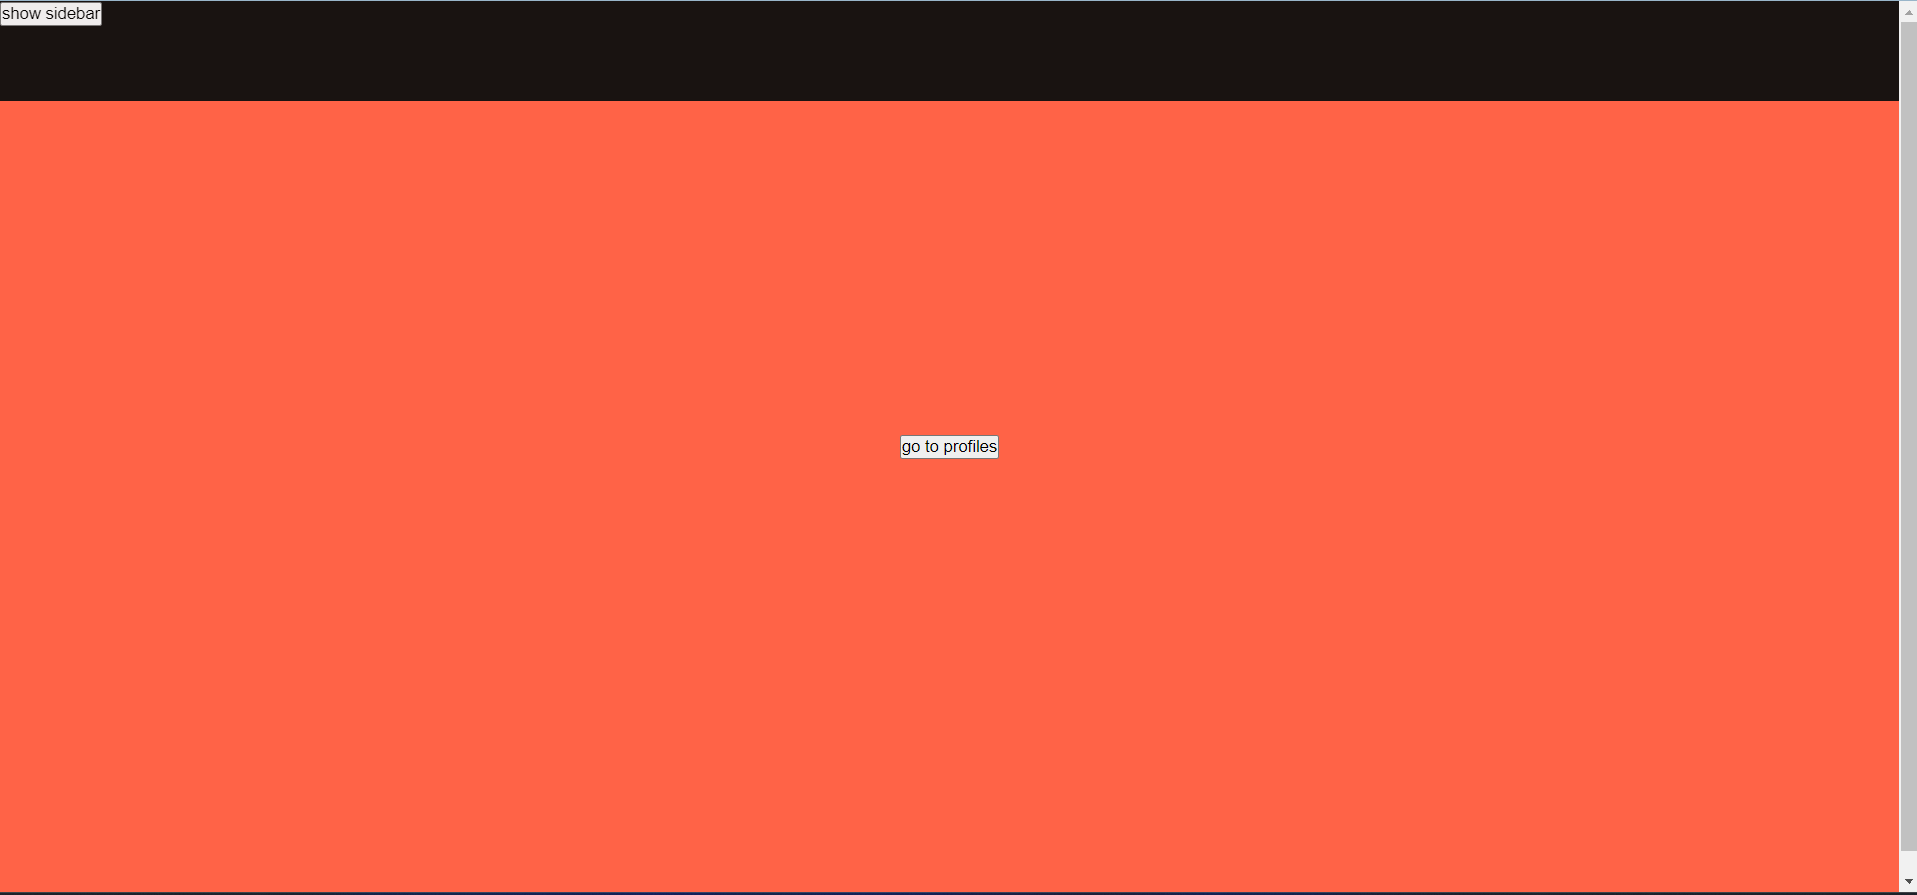
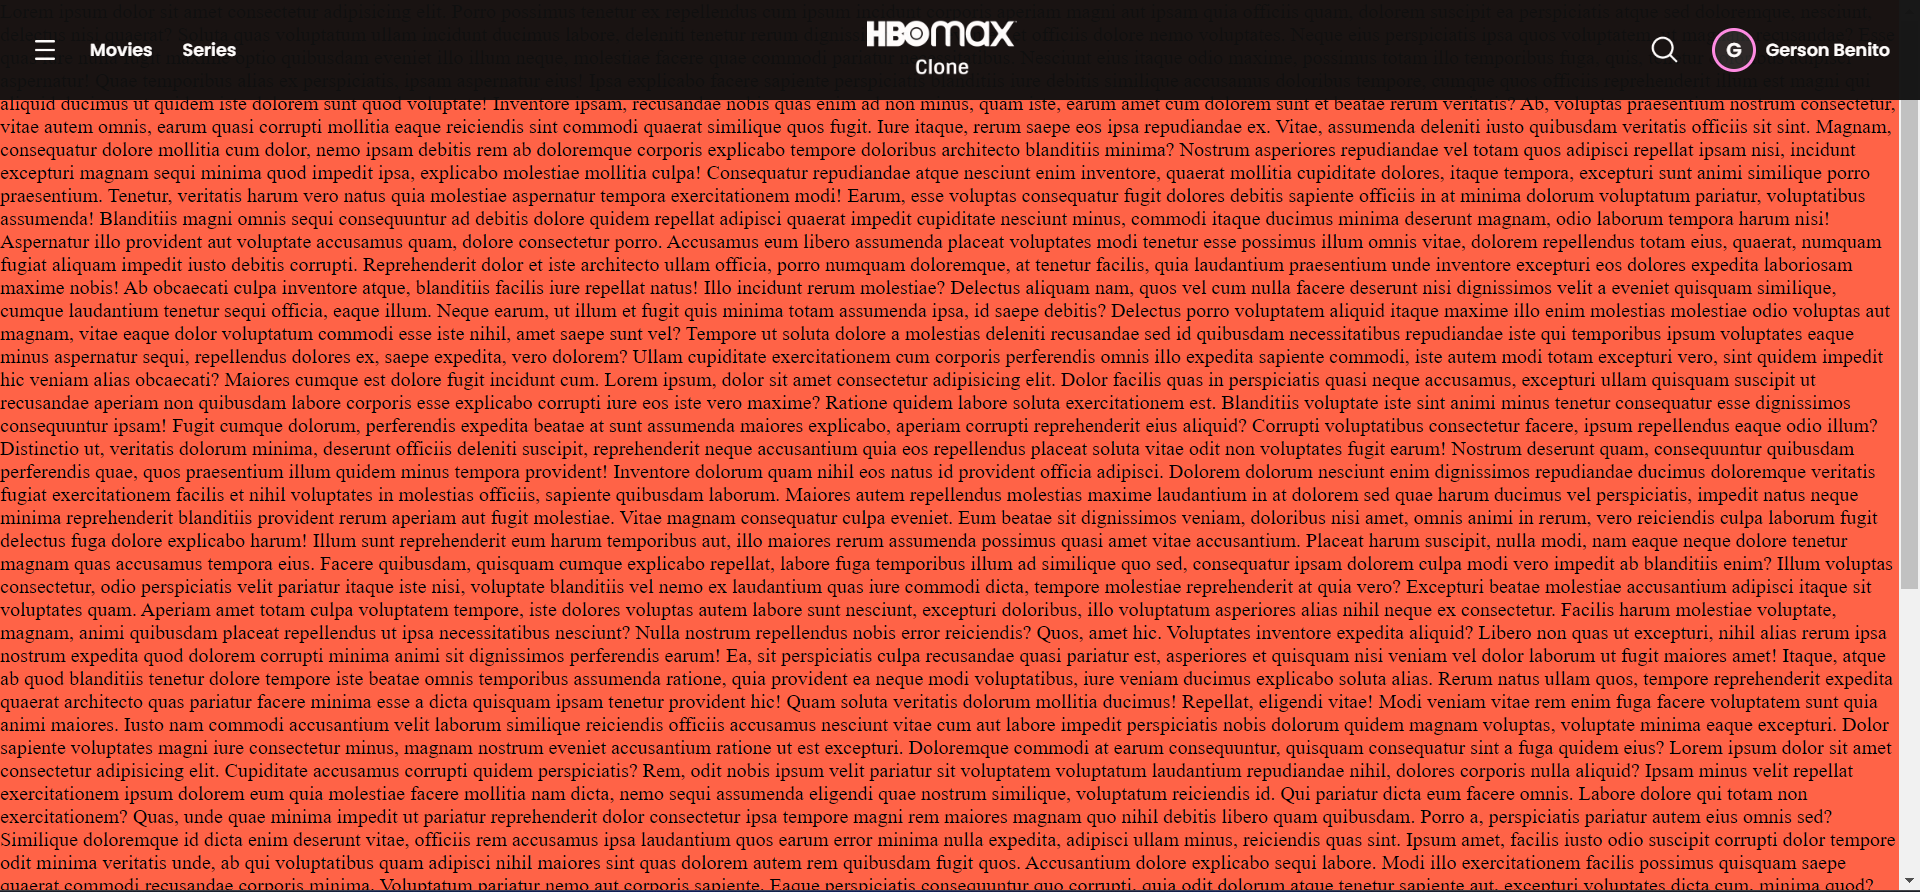
feat: navbar agregrado y readme actualizado

Changed region(s): [[0.0, 0.0, 1.0, 0.9989], [0.0, 0.0, 0.1231, 0.0605]]

diff --git a/src/app/modules/home/pages/home-page.component.html b/src/app/modules/home/pages/home-page.component.html
@@ -1,19 +1,15 @@
+<app-sidebar 
+    (onShowSideBar)="closeSideBar($event)" 
+    [visible]="isVisibleSidebar" 
+/>
+<app-navbar (onShowSideBar)="showSideBar($event)" />
 <div class="container">
-    <div>
-        <app-sidebar 
-            (onShowSideBar)="closeSideBar($event)" 
-            [visible]="isVisibleSidebar" 
-        />
-    </div>
-    <header>
-        <app-navbar (onShowSideBar)="showSideBar($event)" />
-    </header>
-    <main>
+    <div class="content">
         <router-outlet />
-        <button routerLink="/profile/select" >go to profiles</button>
-    </main>
-    <footer>
+        Lorem ipsum dolor sit amet consectetur adipisicing elit. Porro possimus tenetur ex repellendus cum ipsum incidunt corporis aperiam magni aut ipsam quia officiis quam, dolorem suscipit ea perspiciatis atque sed doloremque, nesciunt, delectus nisi quaerat? Soluta quas voluptatum ullam incidunt ducimus labore, deleniti tenetur rerum dignissimos vero eveniet, et officiis dolore nemo voluptates. Neque eius perspiciatis ipsa quos voluptatem, ut magnam recusandae? Esse quas iure nulla fugit maxime optio quibusdam eveniet illo illum neque, molestiae facere quae commodi pariatur necessitatibus. Nesciunt eius itaque odio maxime, possimus totam illo temporibus fuga, quis, tenetur doloribus adipisci aspernatur! Quae temporibus alias ex perspiciatis, ipsam aspernatur eius! Ipsa explicabo facere sapiente perspiciatis blanditiis iure debitis similique accusamus doloribus tempore, cumque quos officiis reprehenderit illum est magni qui aliquid ducimus ut quidem iste dolorem sunt quod voluptate! Inventore ipsam, recusandae nobis quas enim ad non minus, quam iste, earum amet cum dolorem sunt et beatae rerum veritatis? Ab, voluptas praesentium nostrum consectetur, vitae autem omnis, earum quasi corrupti mollitia eaque reiciendis sint commodi quaerat similique quos fugit. Iure itaque, rerum saepe eos ipsa repudiandae ex. Vitae, assumenda deleniti iusto quibusdam veritatis officiis sit sint. Magnam, consequatur dolore mollitia cum dolor, nemo ipsam debitis rem ab doloremque corporis explicabo tempore doloribus architecto blanditiis minima? Nostrum asperiores repudiandae vel totam quos adipisci repellat ipsam nisi, incidunt excepturi magnam sequi minima quod impedit ipsa, explicabo molestiae mollitia culpa! Consequatur repudiandae atque nesciunt enim inventore, quaerat mollitia cupiditate dolores, itaque tempora, excepturi sunt animi similique porro praesentium. Tenetur, veritatis harum vero natus quia molestiae aspernatur tempora exercitationem modi! Earum, esse voluptas consequatur fugit dolores debitis sapiente officiis in at minima dolorum voluptatum pariatur, voluptatibus assumenda! Blanditiis magni omnis sequi consequuntur ad debitis dolore quidem repellat adipisci quaerat impedit cupiditate nesciunt minus, commodi itaque ducimus minima deserunt magnam, odio laborum tempora harum nisi! Aspernatur illo provident aut voluptate accusamus quam, dolore consectetur porro. Accusamus eum libero assumenda placeat voluptates modi tenetur esse possimus illum omnis vitae, dolorem repellendus totam eius, quaerat, numquam fugiat aliquam impedit iusto debitis corrupti. Reprehenderit dolor et iste architecto ullam officia, porro numquam doloremque, at tenetur facilis, quia laudantium praesentium unde inventore excepturi eos dolores expedita laboriosam maxime nobis! Ab obcaecati culpa inventore atque, blanditiis facilis iure repellat natus! Illo incidunt rerum molestiae? Delectus aliquam nam, quos vel cum nulla facere deserunt nisi dignissimos velit a eveniet quisquam similique, cumque laudantium tenetur sequi officia, eaque illum. Neque earum, ut illum et fugit quis minima totam assumenda ipsa, id saepe debitis? Delectus porro voluptatem aliquid itaque maxime illo enim molestias molestiae odio voluptas aut magnam, vitae eaque dolor voluptatum commodi esse iste nihil, amet saepe sunt vel? Tempore ut soluta dolore a molestias deleniti recusandae sed id quibusdam necessitatibus repudiandae iste qui temporibus ipsum voluptates eaque minus aspernatur sequi, repellendus dolores ex, saepe expedita, vero dolorem? Ullam cupiditate exercitationem cum corporis perferendis omnis illo expedita sapiente commodi, iste autem modi totam excepturi vero, sint quidem impedit hic veniam alias obcaecati? Maiores cumque est dolore fugit incidunt cum.
+        Lorem ipsum, dolor sit amet consectetur adipisicing elit. Dolor facilis quas in perspiciatis quasi neque accusamus, excepturi ullam quisquam suscipit ut recusandae aperiam non quibusdam labore corporis esse explicabo corrupti iure eos iste vero maxime? Ratione quidem labore soluta exercitationem est. Blanditiis voluptate iste sint animi minus tenetur consequatur esse dignissimos consequuntur ipsam! Fugit cumque dolorum, perferendis expedita beatae at sunt assumenda maiores explicabo, aperiam corrupti reprehenderit eius aliquid? Corrupti voluptatibus consectetur facere, ipsum repellendus eaque odio illum? Distinctio ut, veritatis dolorum minima, deserunt officiis deleniti suscipit, reprehenderit neque accusantium quia eos repellendus placeat soluta vitae odit non voluptates fugit earum! Nostrum deserunt quam, consequuntur quibusdam perferendis quae, quos praesentium illum quidem minus tempora provident! Inventore dolorum quam nihil eos natus id provident officia adipisci. Dolorem dolorum nesciunt enim dignissimos repudiandae ducimus doloremque veritatis fugiat exercitationem facilis et nihil voluptates in molestias officiis, sapiente quibusdam laborum. Maiores autem repellendus molestias maxime laudantium in at dolorem sed quae harum ducimus vel perspiciatis, impedit natus neque minima reprehenderit blanditiis provident rerum aperiam aut fugit molestiae. Vitae magnam consequatur culpa eveniet. Eum beatae sit dignissimos veniam, doloribus nisi amet, omnis animi in rerum, vero reiciendis culpa laborum fugit delectus fuga dolore explicabo harum! Illum sunt reprehenderit eum harum temporibus aut, illo maiores rerum assumenda possimus quasi amet vitae accusantium. Placeat harum suscipit, nulla modi, nam eaque neque dolore tenetur magnam quas accusamus tempora eius. Facere quibusdam, quisquam cumque explicabo repellat, labore fuga temporibus illum ad similique quo sed, consequatur ipsam dolorem culpa modi vero impedit ab blanditiis enim? Illum voluptas consectetur, odio perspiciatis velit pariatur itaque iste nisi, voluptate blanditiis vel nemo ex laudantium quas iure commodi dicta, tempore molestiae reprehenderit at quia vero? Excepturi beatae molestiae accusantium adipisci itaque sit voluptates quam. Aperiam amet totam culpa voluptatem tempore, iste dolores voluptas autem labore sunt nesciunt, excepturi doloribus, illo voluptatum asperiores alias nihil neque ex consectetur. Facilis harum molestiae voluptate, magnam, animi quibusdam placeat repellendus ut ipsa necessitatibus nesciunt? Nulla nostrum repellendus nobis error reiciendis? Quos, amet hic. Voluptates inventore expedita aliquid? Libero non quas ut excepturi, nihil alias rerum ipsa nostrum expedita quod dolorem corrupti minima animi sit dignissimos perferendis earum! Ea, sit perspiciatis culpa recusandae quasi pariatur est, asperiores et quisquam nisi veniam vel dolor laborum ut fugit maiores amet! Itaque, atque ab quod blanditiis tenetur dolore tempore iste beatae omnis temporibus assumenda ratione, quia provident ea neque modi voluptatibus, iure veniam ducimus explicabo soluta alias. Rerum natus ullam quos, tempore reprehenderit expedita quaerat architecto quas pariatur facere minima esse a dicta quisquam ipsam tenetur provident hic! Quam soluta veritatis dolorum mollitia ducimus! Repellat, eligendi vitae! Modi veniam vitae rem enim fuga facere voluptatem sunt quia animi maiores. Iusto nam commodi accusantium velit laborum similique reiciendis officiis accusamus nesciunt vitae cum aut labore impedit perspiciatis nobis dolorum quidem magnam voluptas, voluptate minima eaque excepturi. Dolor sapiente voluptates magni iure consectetur minus, magnam nostrum eveniet accusantium ratione ut est excepturi. Doloremque commodi at earum consequuntur, quisquam consequatur sint a fuga quidem eius?
+        Lorem ipsum dolor sit amet consectetur adipisicing elit. Cupiditate accusamus corrupti quidem perspiciatis? Rem, odit nobis ipsum velit pariatur sit voluptatem voluptatum laudantium repudiandae nihil, dolores corporis nulla aliquid? Ipsam minus velit repellat exercitationem ipsum dolorem eum quia molestiae facere mollitia nam dicta, nemo sequi assumenda eligendi quae nostrum similique, voluptatum reiciendis id. Qui pariatur dicta eum facere omnis. Labore dolore qui totam non exercitationem? Quas, unde quae minima impedit ut pariatur reprehenderit dolor consectetur ipsa tempore magni rem maiores magnam quo nihil debitis libero quam quibusdam. Porro a, perspiciatis pariatur autem eius omnis sed? Similique doloremque id dicta enim deserunt vitae, officiis rem accusamus ipsa laudantium quos earum error minima nulla expedita, adipisci ullam minus, reiciendis quas sint. Ipsum amet, facilis iusto odio suscipit corrupti dolor tempore odit minima veritatis unde, ab qui voluptatibus quam adipisci nihil maiores sint quas dolorem autem rem quibusdam fugit quos. Accusantium dolore explicabo sequi labore. Modi illo exercitationem facilis possimus quisquam saepe quaerat commodi recusandae corporis minima. Voluptatum pariatur nemo aut corporis sapiente. Eaque perspiciatis consequuntur quo corrupti, quia odit dolorum atque tenetur sapiente aut, excepturi voluptates dicta cum, minima quod? Inventore, esse quia, facere non nihil repellendus dolores rem itaque obcaecati molestias, ad optio debitis doloribus sapiente hic maxime consequatur. Ipsa rem debitis quibusdam soluta quod non quisquam amet repellendus tenetur! Debitis eaque corporis aperiam doloremque asperiores totam facere voluptatibus ullam temporibus impedit. Blanditiis architecto minima excepturi ullam, voluptate corporis nihil adipisci earum, odio est ipsa nisi iste ipsam magnam ab voluptatibus dolores, aspernatur quibusdam nostrum repellendus mollitia impedit possimus nulla. Quibusdam, quaerat soluta. Harum iste blanditiis tenetur nam eligendi fuga provident velit fugit assumenda voluptate enim dolores nemo, alias totam! Esse nemo labore nostrum delectus maxime placeat, ex voluptate quibusdam doloremque recusandae id harum inventore optio nulla eos corrupti asperiores dolorem consequatur, dolorum quod! Sunt rerum nobis, debitis pariatur laboriosam distinctio est reiciendis doloremque esse dolorem doloribus sed delectus perferendis, dolores consectetur, ipsa recusandae nam similique quae suscipit explicabo harum. Rem quo exercitationem quisquam perspiciatis! Corrupti doloremque totam itaque quia, veniam nemo ipsum ea quasi omnis. Nulla ullam, ducimus pariatur laudantium numquam quibusdam saepe nisi labore molestias! Tenetur ad placeat, beatae cum nihil harum culpa, quia tempore repellat voluptatibus ullam, quas quae rerum eveniet corrupti. Consequuntur, illum? Error, ut. Officia vitae quis ea facere vel laboriosam obcaecati accusantium vero aliquid autem blanditiis nobis, reiciendis fugit dolorum aliquam exercitationem modi, voluptatibus doloribus amet, deserunt tempore? Tenetur, excepturi! Suscipit, iure accusamus animi nam eaque debitis optio in doloremque ut commodi laudantium, aspernatur delectus sed. Voluptas nemo omnis libero dolor dicta cum repellendus laboriosam itaque atque, veritatis quos blanditiis molestias obcaecati consequatur modi suscipit corrupti eius voluptates, fugit in officiis, ab est. Reiciendis ab eius cum sunt molestiae aspernatur quidem at iusto accusamus saepe aperiam eveniet pariatur iste, ratione culpa quibusdam exercitationem nihil neque consequuntur cupiditate cumque eos. Aspernatur ab, sit at suscipit asperiores et perspiciatis sequi recusandae aut ipsum perferendis inventore quo nam, distinctio quidem consectetur quaerat. Tenetur ratione pariatur id modi architecto magnam numquam hic blanditiis deleniti doloribus sit eius natus est magni, minima veniam quisquam! Sit veniam nulla culpa voluptatum vitae. Necessitatibus sunt debitis similique ea aspernatur nisi qui molestias exercitationem veniam porro quis ratione perspiciatis ut assumenda cumque deleniti modi quod possimus, quidem provident, nihil officiis sint a? Ipsam fugiat possimus inventore aut illo necessitatibus dignissimos voluptatem quidem ea sunt dolores blanditiis deserunt temporibus nihil natus quam dolorem, beatae explicabo ad suscipit vero sequi laboriosam? Nostrum tempora corporis at aliquid veritatis explicabo atque laboriosam, quo veniam amet voluptatum ut, nemo pariatur natus eum vero! Adipisci, architecto. Doloremque corporis obcaecati dignissimos, perferendis labore culpa suscipit, debitis soluta ab, eligendi possimus. Repudiandae ea asperiores impedit accusantium in porro ex, culpa iste, accusamus alias sapiente dolores maiores ipsum temporibus iure nemo consequatur illum! Laudantium doloremque sapiente inventore omnis, ex culpa nihil? Ut itaque, molestias pariatur alias veritatis a aliquam sunt vel dolores asperiores id ipsa quibusdam autem exercitationem optio, voluptate reiciendis sapiente. Molestias ab quasi quos quas aperiam soluta quisquam magnam est possimus similique, modi minima nostrum fugiat recusandae distinctio nulla sequi illum hic nisi iure nesciunt, veritatis dolor, enim consequuntur. Exercitationem, ab vitae! Quos quis necessitatibus amet doloribus fugiat ab voluptas quam.
         <app-footer />
-    </footer>
+    </div>
 </div>
 

diff --git a/src/app/modules/home/components/navbar/navbar.component.scss b/src/app/modules/home/components/navbar/navbar.component.scss
@@ -1,8 +1,81 @@
-.navbar{
+@mixin text-navbar($sise: 14px){
+    color: rgb(255, 255, 255);
+    font-family: 'Poppins', sans-serif;
+    font-weight: 600;
+    font-size: $sise;
+    line-height: 21px;
+    letter-spacing: 0px;
+}
+.container{
     background: rgba(15, 15, 15, 0.98);
-    position: absolute;
+    position: fixed;
     width: 100%;
     opacity: 0.98;
     height: 80px;
     z-index: 0;
+    display: flex;
+    align-items: center;
+    top: 0;
+}
+.navbar{
+    display: flex;
+    justify-content: space-between;
+    align-items: center;
+    width: 100%;
+    margin: 0px 24px;
+    .options{
+        @include text-navbar();
+        display: flex;
+        gap: 24px;
+        align-items: center;
+        .icon-menu{
+            display: flex;
+            align-items: center;
+            img{
+                width: 24px;
+                cursor: pointer;
+            }
+        }
+    }
+    .logo-app{
+        img{
+            width: 120px;
+        }
+    }
+
+}
+
+.actions{
+    display: flex;
+    gap: 24px;
+    align-items: center;
+    .search{
+        display: flex;
+        img{
+            width: 28px;
+            cursor: pointer;
+        }
+    }
+    .user-profile{
+        color: rgb(255, 255, 255);
+        display: flex;
+        gap: 8px;
+        align-items: center;
+        .user-image{
+            border-radius: 999px;
+            border: 3px solid rgb(255, 140, 230);
+            background: rgba(255, 255, 255, 0.1);
+            width: 30px;
+            height: 30px;
+            display: flex;
+            align-items: center;
+            justify-content: center;
+            @include text-navbar(16px);
+            cursor: pointer;
+        }
+        .user-name{
+            @include text-navbar();
+            cursor: pointer;
+        }
+    }
 }

diff --git a/src/app/modules/home/components/navbar/navbar.component.html b/src/app/modules/home/components/navbar/navbar.component.html
@@ -1,3 +1,29 @@
-<div class="navbar">
-    <button (click)="showSideBar()">show sidebar</button>
+<div class="container">
+    <div class="navbar">
+        <div class="options">
+            <div class="icon-menu">
+                <img 
+                    src="/assets/image/open-sidebar.png" 
+                    alt="open sidebar"
+                    (click)="showSideBar()"
+                >
+            </div>
+            <div class="option-select">Movies</div>
+            <div class="sugerencias">Series</div>
+        </div>
+        <div class="logo-app">
+            <img src="/assets/image/logo-HBOMax-clone.png" alt="logo HBO Max">
+        </div>
+        <div class="actions">
+            <div class="search">
+                <img src="/assets/image/search.png" alt="search">
+            </div>
+            <div class="user-profile">
+                <div class="user-image" routerLink="/profile/select">
+                    G
+                </div>
+                <div class="user-name" routerLink="/profile/select">Gerson Benito</div>
+            </div>
+        </div>
+    </div>
 </div>

diff --git a/src/app/modules/home/pages/home-page.component.scss b/src/app/modules/home/pages/home-page.component.scss
@@ -1,7 +1,11 @@
-main{
-    height: 100vh;
+.container{
+    // height: 100vh;
     background-color: tomato;
     display: flex;
     justify-content: center;
     align-items: center;
+    .content{
+        height: 100vh;
+        overflow-y: auto;
+    }
 }
